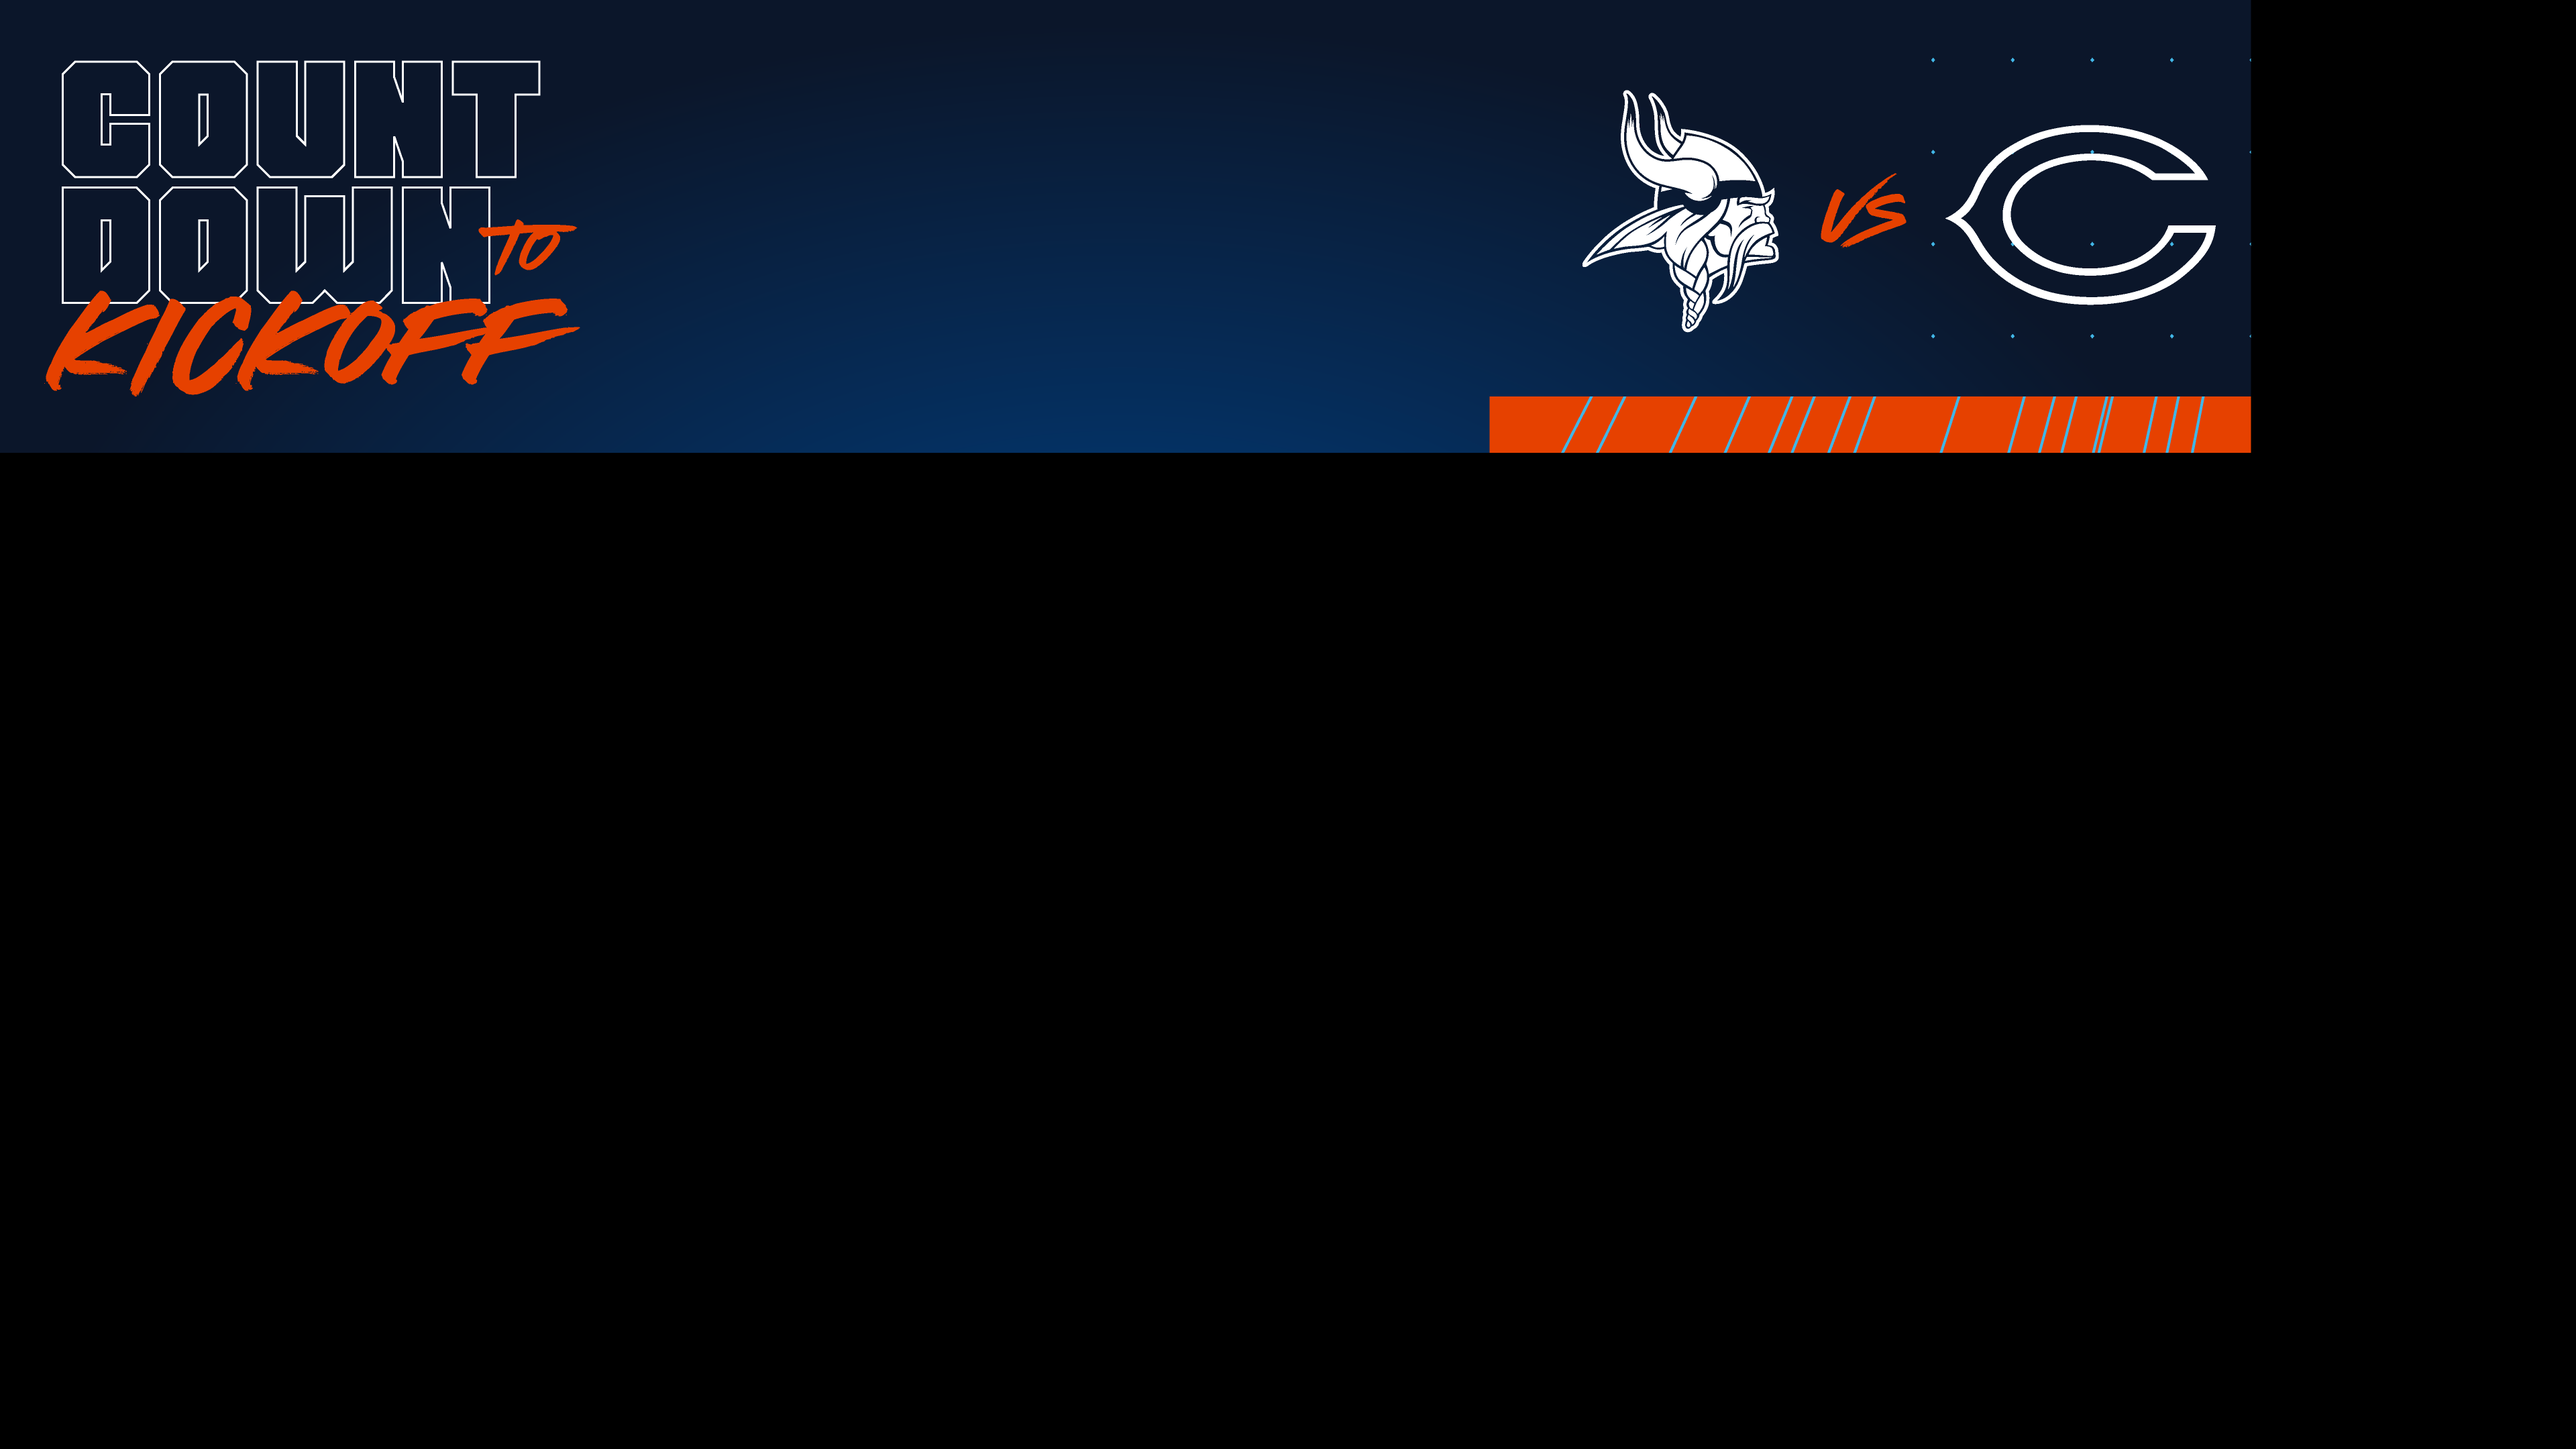
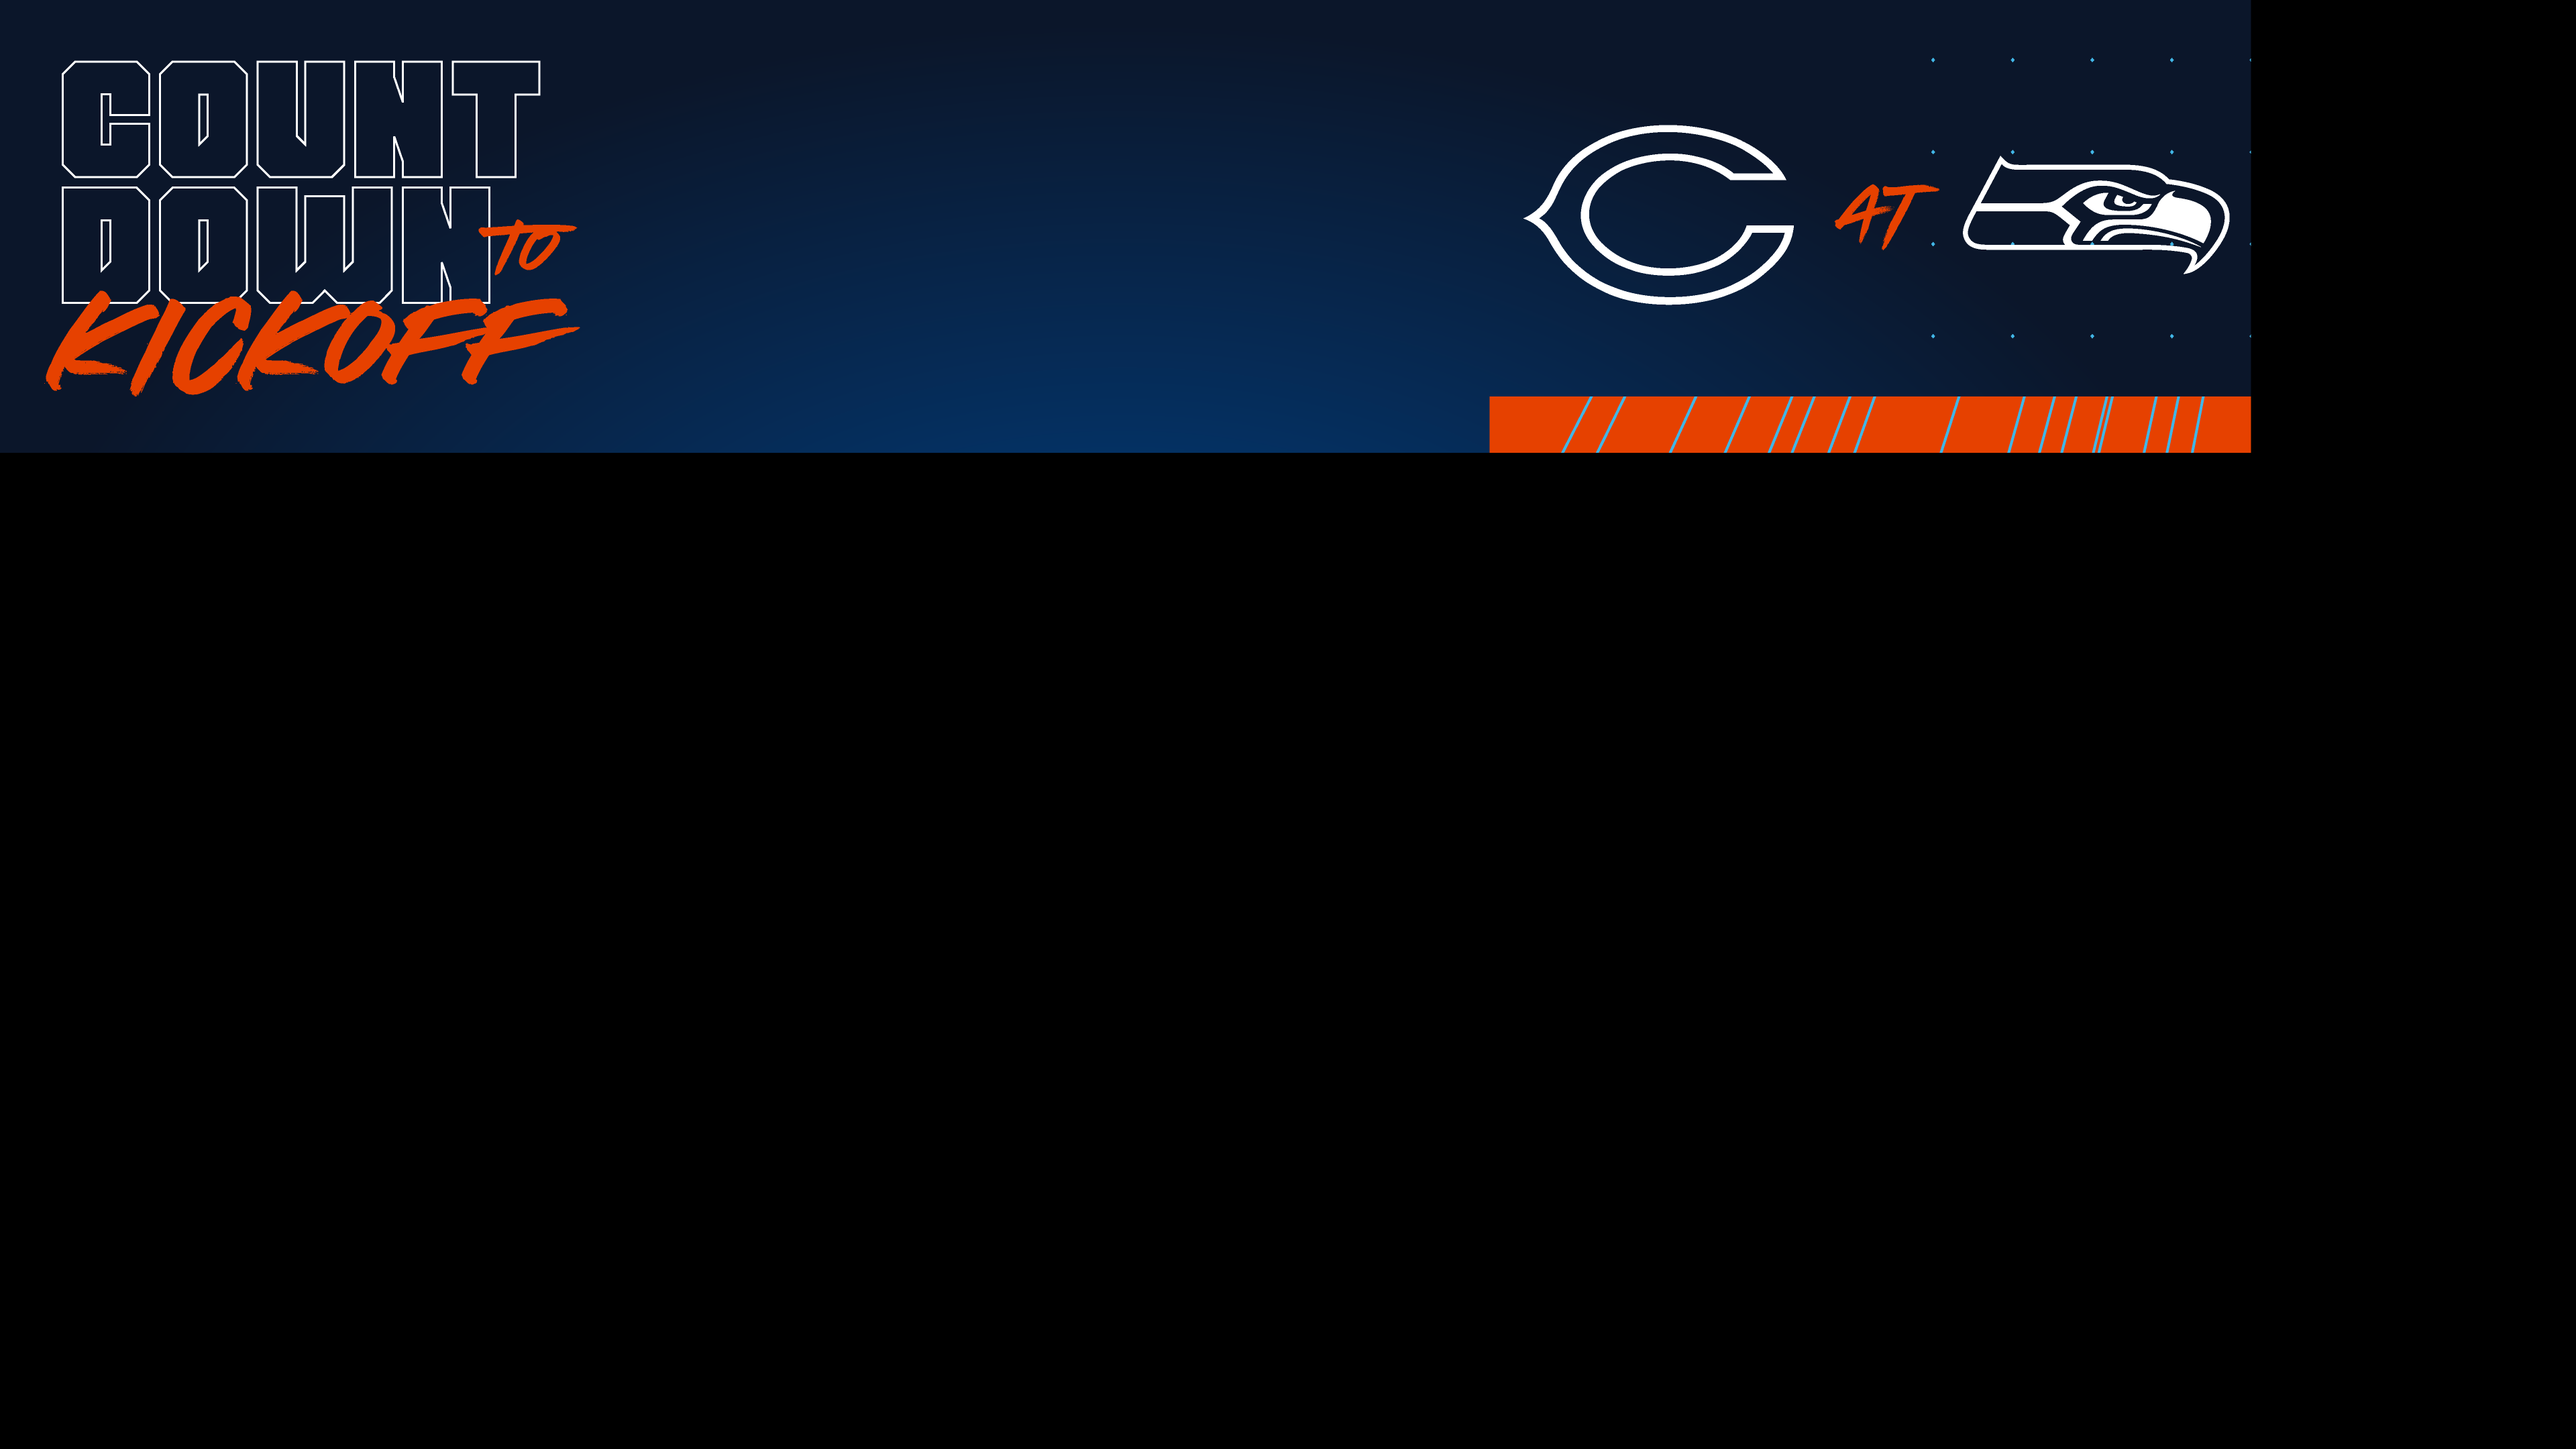
SEA game

Changed region(s): [[0.5938, 0.062, 0.875, 0.2171]]

diff --git a/CurrentWeek/Horizontal/script.js b/CurrentWeek/Horizontal/script.js
@@ -68,9 +68,9 @@ $(document).ready(function(){
 			return futureFormattedDate
 		}
 		//USE 24HR MILITARY TIME
-		//MIN
+		//SEA
 		$("#countdown").countdown({
-			date: "20 December 2021 19:15:00",
+			date: "26 December 2021 15:05:00",
 			format: "on"
 		});
 	});
